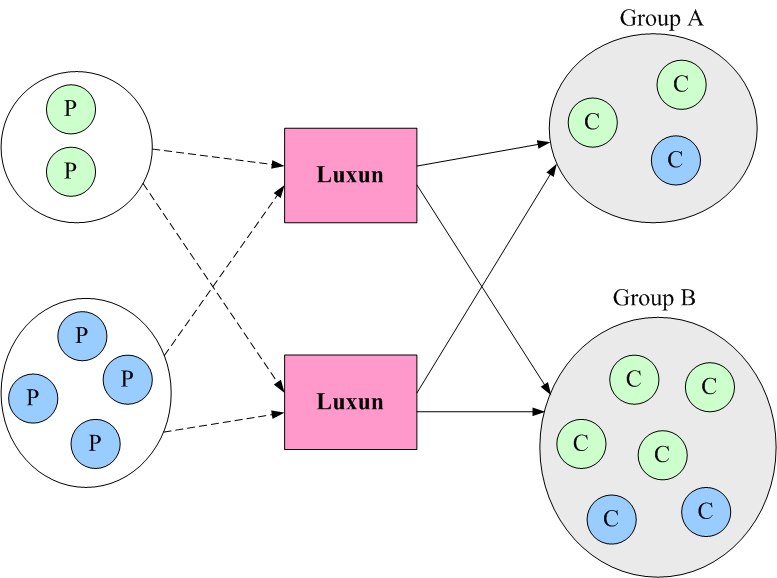
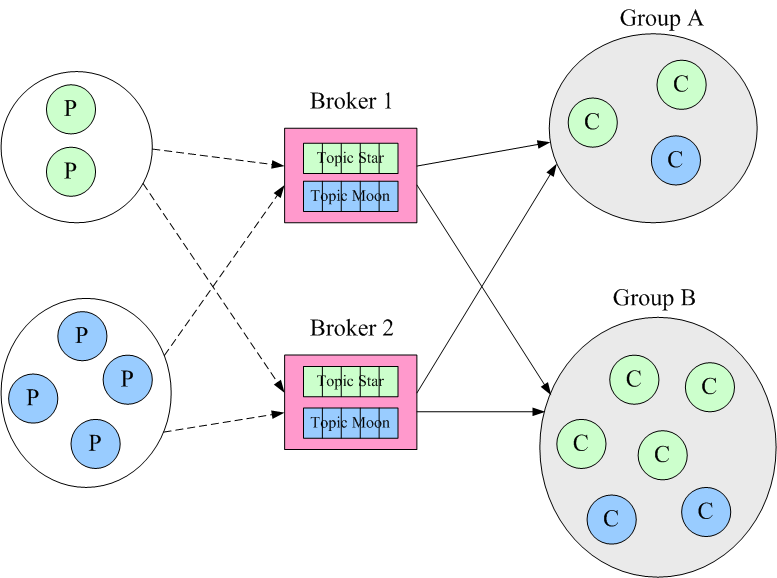
Site updated at 2013-04-08 08:19:16 UTC

diff --git a/blog/2013/04/03/luxun-quick-start/index.html b/blog/2013/04/03/luxun-quick-start/index.html
@@ -1081,7 +1081,7 @@
 
 <blockquote><ol>
 <li>There are two brokers.</li>
-<li>There are two topics, topic <code>star</code> and topic <code>moon</code>.</li>
+<li>There are two topics, topic <code>star</code>(marked as green) and topic <code>moon</code>(marked as blue), in each broker.</li>
 <li>Two topic <code>star</code> producer threads(marked as green) will produce topic <code>star</code> messages to two brokers.</li>
 <li>Four topic <code>moon</code> producer threads(marked as blue) will produce topic <code>moon</code> messages to two brokers.</li>
 <li>There are two consumer groups.</li>
